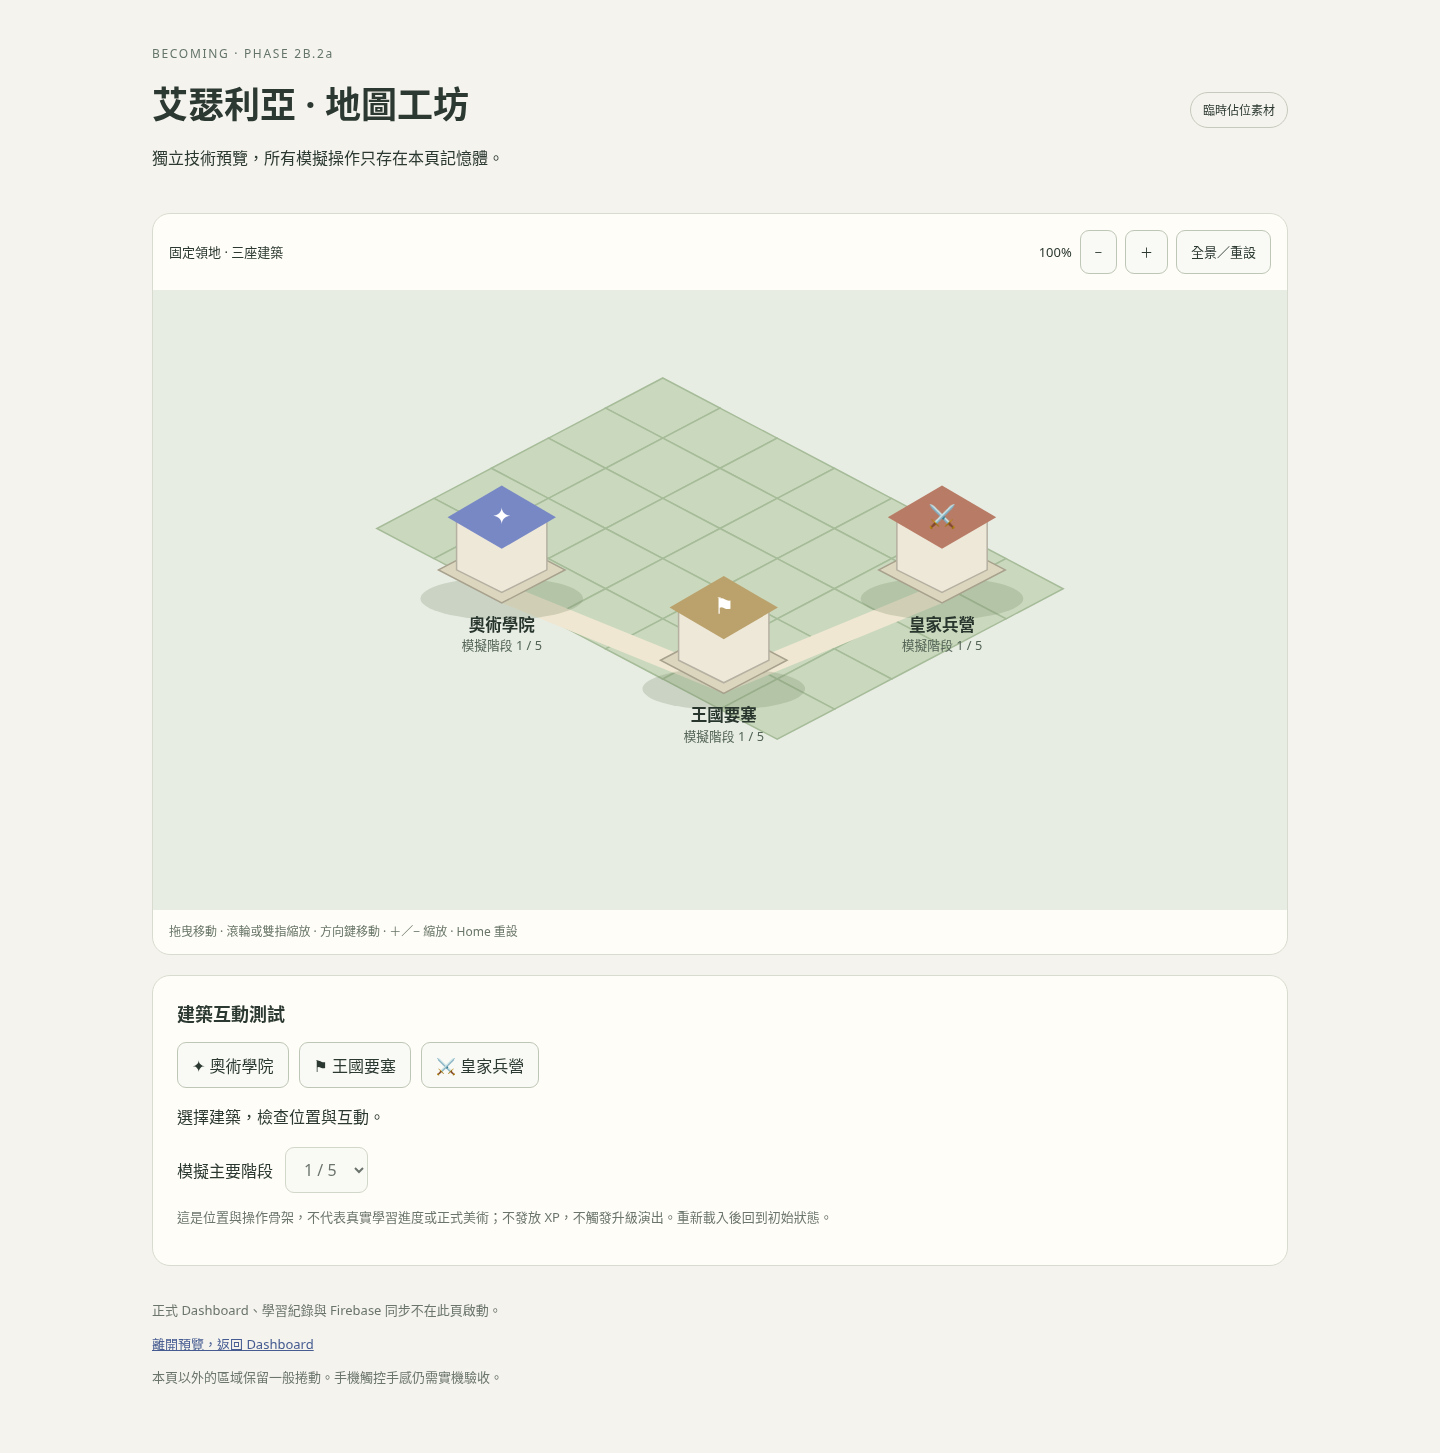
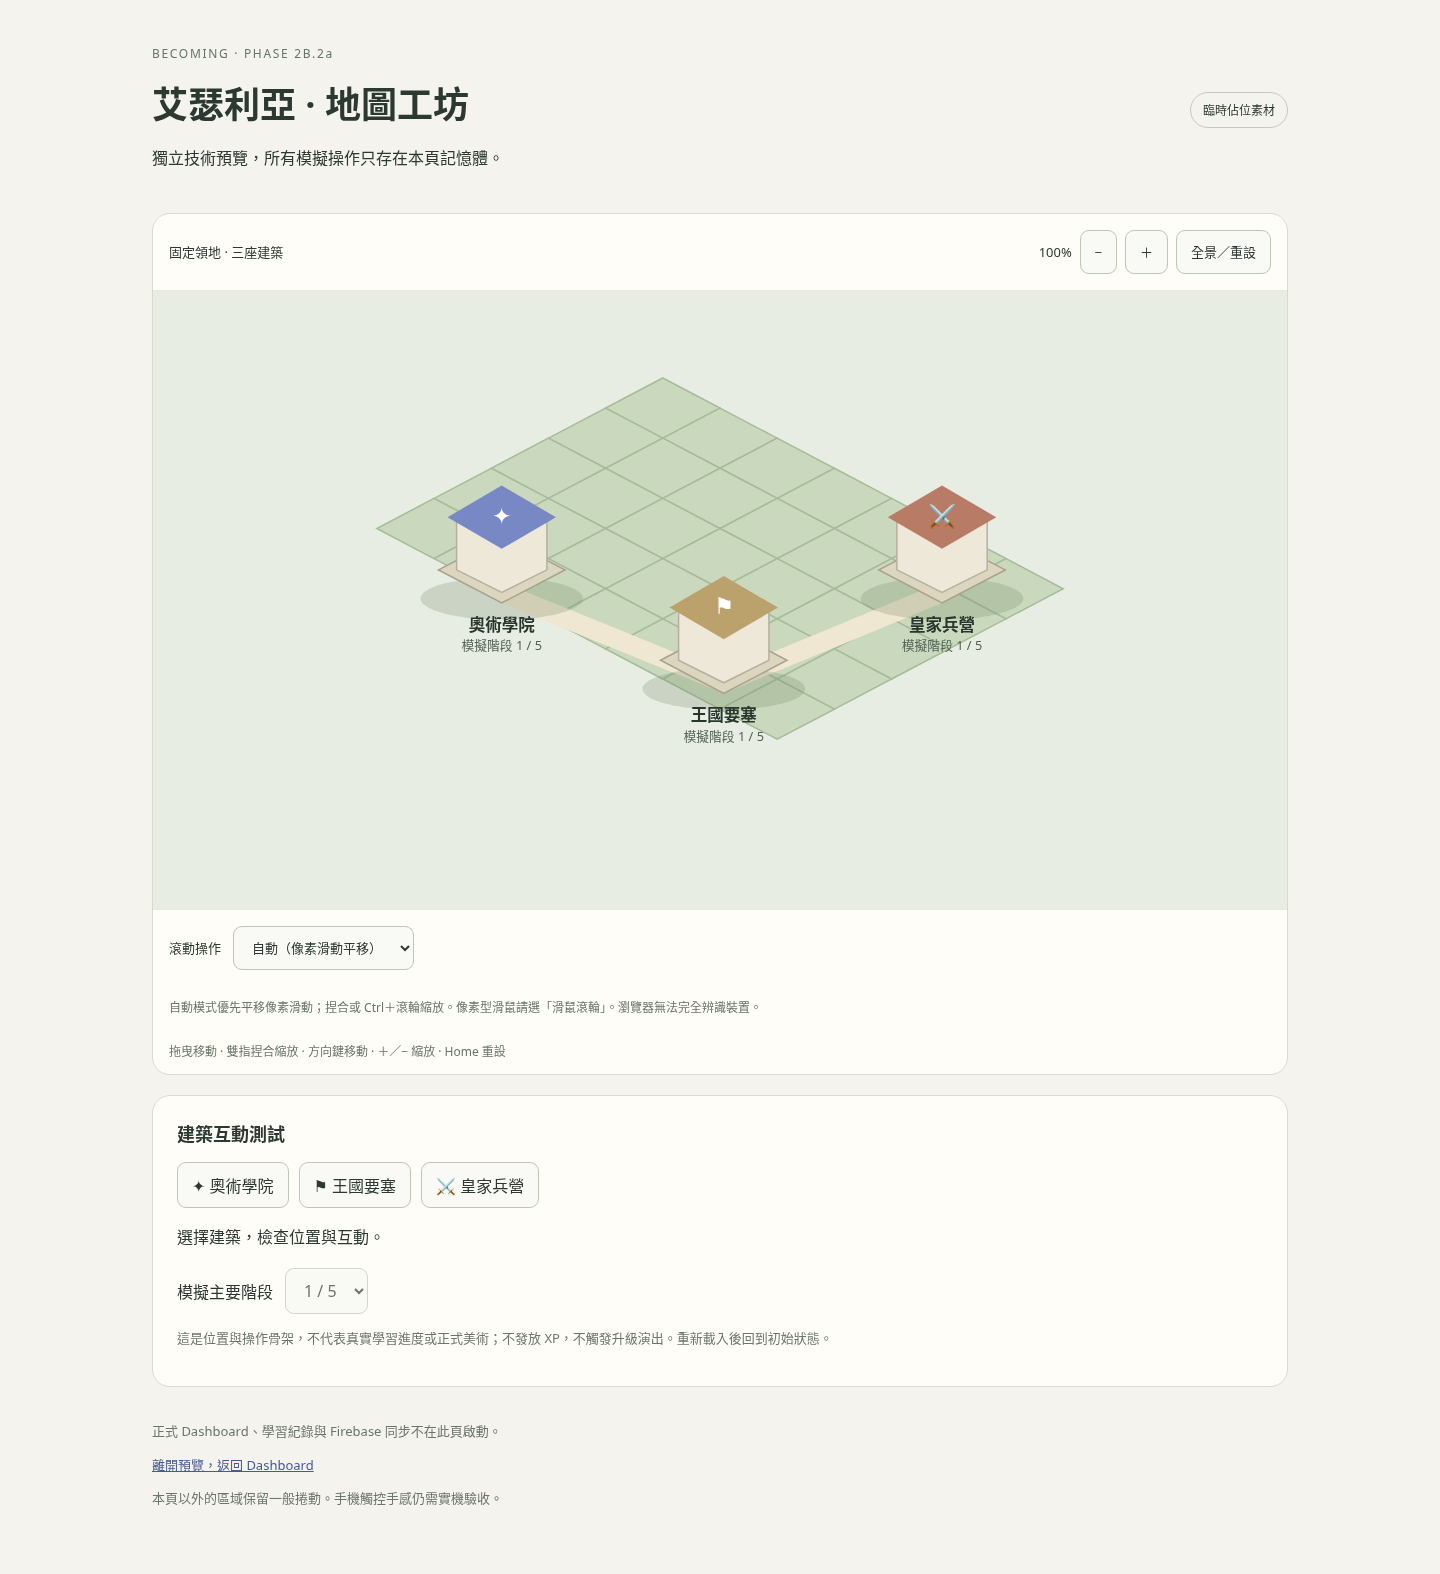
fix: 區分地圖指標焦點與觸控板滾動操作

diff --git a/kingdom-map-input.js b/kingdom-map-input.js
@@ -1,5 +1,11 @@
 // 輸入只發送鏡頭與選取意圖；不持有業務 store 或 Firebase。
-export function bindMapInput(surface,{pan,zoom,reset,select}){
+// wheel 沒有可靠的硬體 ID；像素事件優先平移，歧義由使用者選擇模式。
+export function wheelIntent(event,mode='auto'){
+ if(event.ctrlKey)return 'zoom';
+ if(mode==='zoom'||mode==='pan')return mode;
+ return event.deltaMode===1||event.deltaMode===2?'zoom':'pan';
+}
+export function bindMapInput(surface,{pan,zoom,reset,select,wheelMode=()=> 'auto'}){
  const listeners=[],pointers=new Map();let gesture=null,disposed=false;
  const listen=(type,fn,options)=>{surface.addEventListener(type,fn,options);listeners.push(()=>surface.removeEventListener(type,fn,options));};
  const local=event=>{const r=surface.getBoundingClientRect();return {x:event.clientX-r.left,y:event.clientY-r.top};};
@@ -8,7 +14,7 @@ export function bindMapInput(surface,{pan,zoom,reset,select}){
  listen('pointerdown',event=>{
   if(event.pointerType==='mouse'&&event.button!==0||pointers.size>=2)return;
   // 阻止滑鼠啟動原生選取，同時明確保留建築與地圖的鍵盤焦點。
-  if(event.pointerType==='mouse'){event.preventDefault();(event.target.closest?.('[data-building]')||surface).focus?.({preventScroll:true});}
+  if(event.pointerType==='mouse'){event.preventDefault();(event.target.closest?.('[data-building]')||surface).focus?.({preventScroll:true});surface.setAttribute?.('data-pointer-focus','');}
   const point=local(event);pointers.set(event.pointerId,point);surface.setPointerCapture?.(event.pointerId);
   if(pointers.size===1)gesture={start:point,last:point,dragged:false,building:event.target.closest?.('[data-building]')?.dataset.building};
   else gesture={pinch:true,previous:pair(),dragged:true};
@@ -28,15 +34,21 @@ export function bindMapInput(surface,{pan,zoom,reset,select}){
   pointers.delete(event.pointerId);if(surface.hasPointerCapture?.(event.pointerId))surface.releasePointerCapture(event.pointerId);
   if(!pointers.size)gesture=null;
  });
+ listen('focusout',event=>{if(!surface.contains?.(event.relatedTarget))surface.removeAttribute?.('data-pointer-focus');});
  listen('dragstart',event=>event.preventDefault());
  listen('pointercancel',clear);listen('lostpointercapture',event=>{if(pointers.has(event.pointerId))clear();});
- listen('wheel',event=>{event.preventDefault();clear();const unit=event.deltaMode===1?16:event.deltaMode===2?surface.clientHeight:1;zoom(Math.exp(-Math.max(-300,Math.min(300,event.deltaY*unit))*.002),local(event));},{passive:false});
+ listen('wheel',event=>{
+  event.preventDefault();clear();const unit=event.deltaMode===1?16:event.deltaMode===2?surface.clientHeight:1;
+  if(wheelIntent(event,wheelMode())==='pan')pan({x:-event.deltaX*unit,y:-event.deltaY*unit});
+  else zoom(Math.exp(-Math.max(-300,Math.min(300,event.deltaY*unit))*.002),local(event));
+ },{passive:false});
  listen('keydown',event=>{
+  surface.removeAttribute?.('data-pointer-focus');
   const id=event.target.closest?.('[data-building]')?.dataset.building;
   if(id&&['Enter',' '].includes(event.key)){event.preventDefault();select(id);return;}
   const moves={ArrowLeft:{x:40,y:0},ArrowRight:{x:-40,y:0},ArrowUp:{x:0,y:40},ArrowDown:{x:0,y:-40}};
   if(moves[event.key]){event.preventDefault();pan(moves[event.key]);}
   else if(['+','=','-','0','Home'].includes(event.key)){event.preventDefault();if(['0','Home'].includes(event.key))reset();else zoom(event.key==='-'?1/1.2:1.2,{x:surface.clientWidth/2,y:surface.clientHeight/2});}
  });
- return {dispose(){if(disposed)return;disposed=true;for(const remove of listeners)remove();clear();}};
+ return {dispose(){if(disposed)return;disposed=true;for(const remove of listeners)remove();clear();surface.removeAttribute?.('data-pointer-focus');}};
 }

diff --git a/kingdom-preview.html b/kingdom-preview.html
@@ -6,7 +6,9 @@
  <section class="map-card" aria-label="王國地圖預覽">
   <div class="toolbar"><span>固定領地 · 三座建築</span><div><output data-zoom aria-label="縮放比例"></output><button data-zoom-factor="0.8333333333" aria-label="縮小">−</button><button data-zoom-factor="1.2" aria-label="放大">＋</button><button data-reset>全景／重設</button></div></div>
   <svg data-map role="group" aria-label="可拖曳與縮放的王國地圖" tabindex="0"></svg>
-  <p class="map-hint">拖曳移動 · 滾輪或雙指縮放 · 方向鍵移動 · ＋／− 縮放 · Home 重設</p>
+  <div class="toolbar"><label>滾動操作 <select data-wheel-mode aria-describedby="wheel-help"><option value="auto">自動（像素滑動平移）</option><option value="zoom">滑鼠滾輪（縮放）</option><option value="pan">觸控板滑動（平移）</option></select></label></div>
+  <p class="map-hint" id="wheel-help">自動模式優先平移像素滑動；捏合或 Ctrl＋滾輪縮放。像素型滑鼠請選「滑鼠滾輪」。瀏覽器無法完全辨識裝置。</p>
+  <p class="map-hint">拖曳移動 · 雙指捏合縮放 · 方向鍵移動 · ＋／− 縮放 · Home 重設</p>
  </section>
  <section class="preview-controls" aria-label="記憶體模擬"><h2>建築互動測試</h2><div class="building-choices"><button data-select="academy" aria-pressed="false">✦ 奧術學院</button><button data-select="keep" aria-pressed="false">⚑ 王國要塞</button><button data-select="barracks" aria-pressed="false">⚔ 皇家兵營</button></div><p data-status role="status"></p><label>模擬主要階段 <select data-stage disabled><option value="1">1 / 5</option><option value="2">2 / 5</option><option value="3">3 / 5</option><option value="4">4 / 5</option><option value="5">5 / 5</option></select></label><p class="note">這是位置與操作骨架，不代表真實學習進度或正式美術；不發放 XP，不觸發升級演出。重新載入後回到初始狀態。</p></section>
  <footer><p>正式 Dashboard、學習紀錄與 Firebase 同步不在此頁啟動。</p><a href="./">離開預覽，返回 Dashboard</a><p>本頁以外的區域保留一般捲動。手機觸控手感仍需實機驗收。</p></footer>

diff --git a/kingdom-preview.js b/kingdom-preview.js
@@ -10,12 +10,13 @@ export function mountPreview(root){
  function render(){const snapshot=state.read();renderer.update(snapshot);const b=snapshot.buildings.find(b=>b.id===snapshot.selected);stage.disabled=!b;stage.value=String(b?.stage||1);status.textContent=b?`${b.title} · ${b.role} · 模擬階段 ${b.stage} / 5`:'選擇建築，檢查位置與互動。';root.querySelectorAll('[data-select]').forEach(button=>button.setAttribute('aria-pressed',String(button.dataset.select===snapshot.selected)));}
  function select(id){state.select(id);render();}
  const reset=()=>{camera.reset();draw();},zoom=(factor,point)=>{camera.zoom(factor,point);draw();},pan=delta=>{camera.pan(delta);draw();};
- const input=bindMapInput(svg,{reset,zoom,pan,select});
+ const input=bindMapInput(svg,{reset,zoom,pan,select,wheelMode:()=>root.querySelector('[data-wheel-mode]').value});
  root.querySelectorAll('[data-select]').forEach(button=>button.addEventListener('click',()=>select(button.dataset.select),{signal:controller.signal}));
  root.querySelector('[data-reset]').addEventListener('click',reset,{signal:controller.signal});
  for(const button of root.querySelectorAll('[data-zoom-factor]'))button.addEventListener('click',()=>zoom(Number(button.dataset.zoomFactor),{x:svg.clientWidth/2,y:svg.clientHeight/2}),{signal:controller.signal});
  stage.addEventListener('change',()=>{state.setStage(state.read().selected,Number(stage.value));render();},{signal:controller.signal});
  const observer=new ResizeObserver(()=>{camera.resize({width:svg.clientWidth,height:svg.clientHeight});draw();});observer.observe(svg);
+ root.querySelector('[data-wheel-mode]').value='auto';
  draw();render();
  return {dispose(){if(disposed)return;disposed=true;input.dispose();observer.disconnect();controller.abort();renderer.dispose();}};
 }

diff --git a/kingdom-map.css b/kingdom-map.css
@@ -18,6 +18,9 @@ button:focus-visible,select:focus-visible,svg:focus-visible { outline:3px solid 
 [data-map] { display:block; width:100%; height:clamp(300px,52vw,620px); background:#e8ede4; touch-action:none; cursor:grab; }
 /* 僅地圖互動區阻止原生反白與拖曳，外部文字仍可選取。 */
 [data-map],[data-map] * { -webkit-user-select:none; user-select:none; -webkit-user-drag:none; }
+/* 指標焦點不畫鍵盤外框；Tab 或方向鍵會恢復地圖焦點提示。 */
+[data-map]:focus-visible { outline-offset:-3px; }
+[data-map][data-pointer-focus]:focus-visible { outline:none; }
 [data-map]:active { cursor:grabbing; }
 [data-building] { cursor:pointer; }
 [data-building]:focus-visible { outline:none; }
